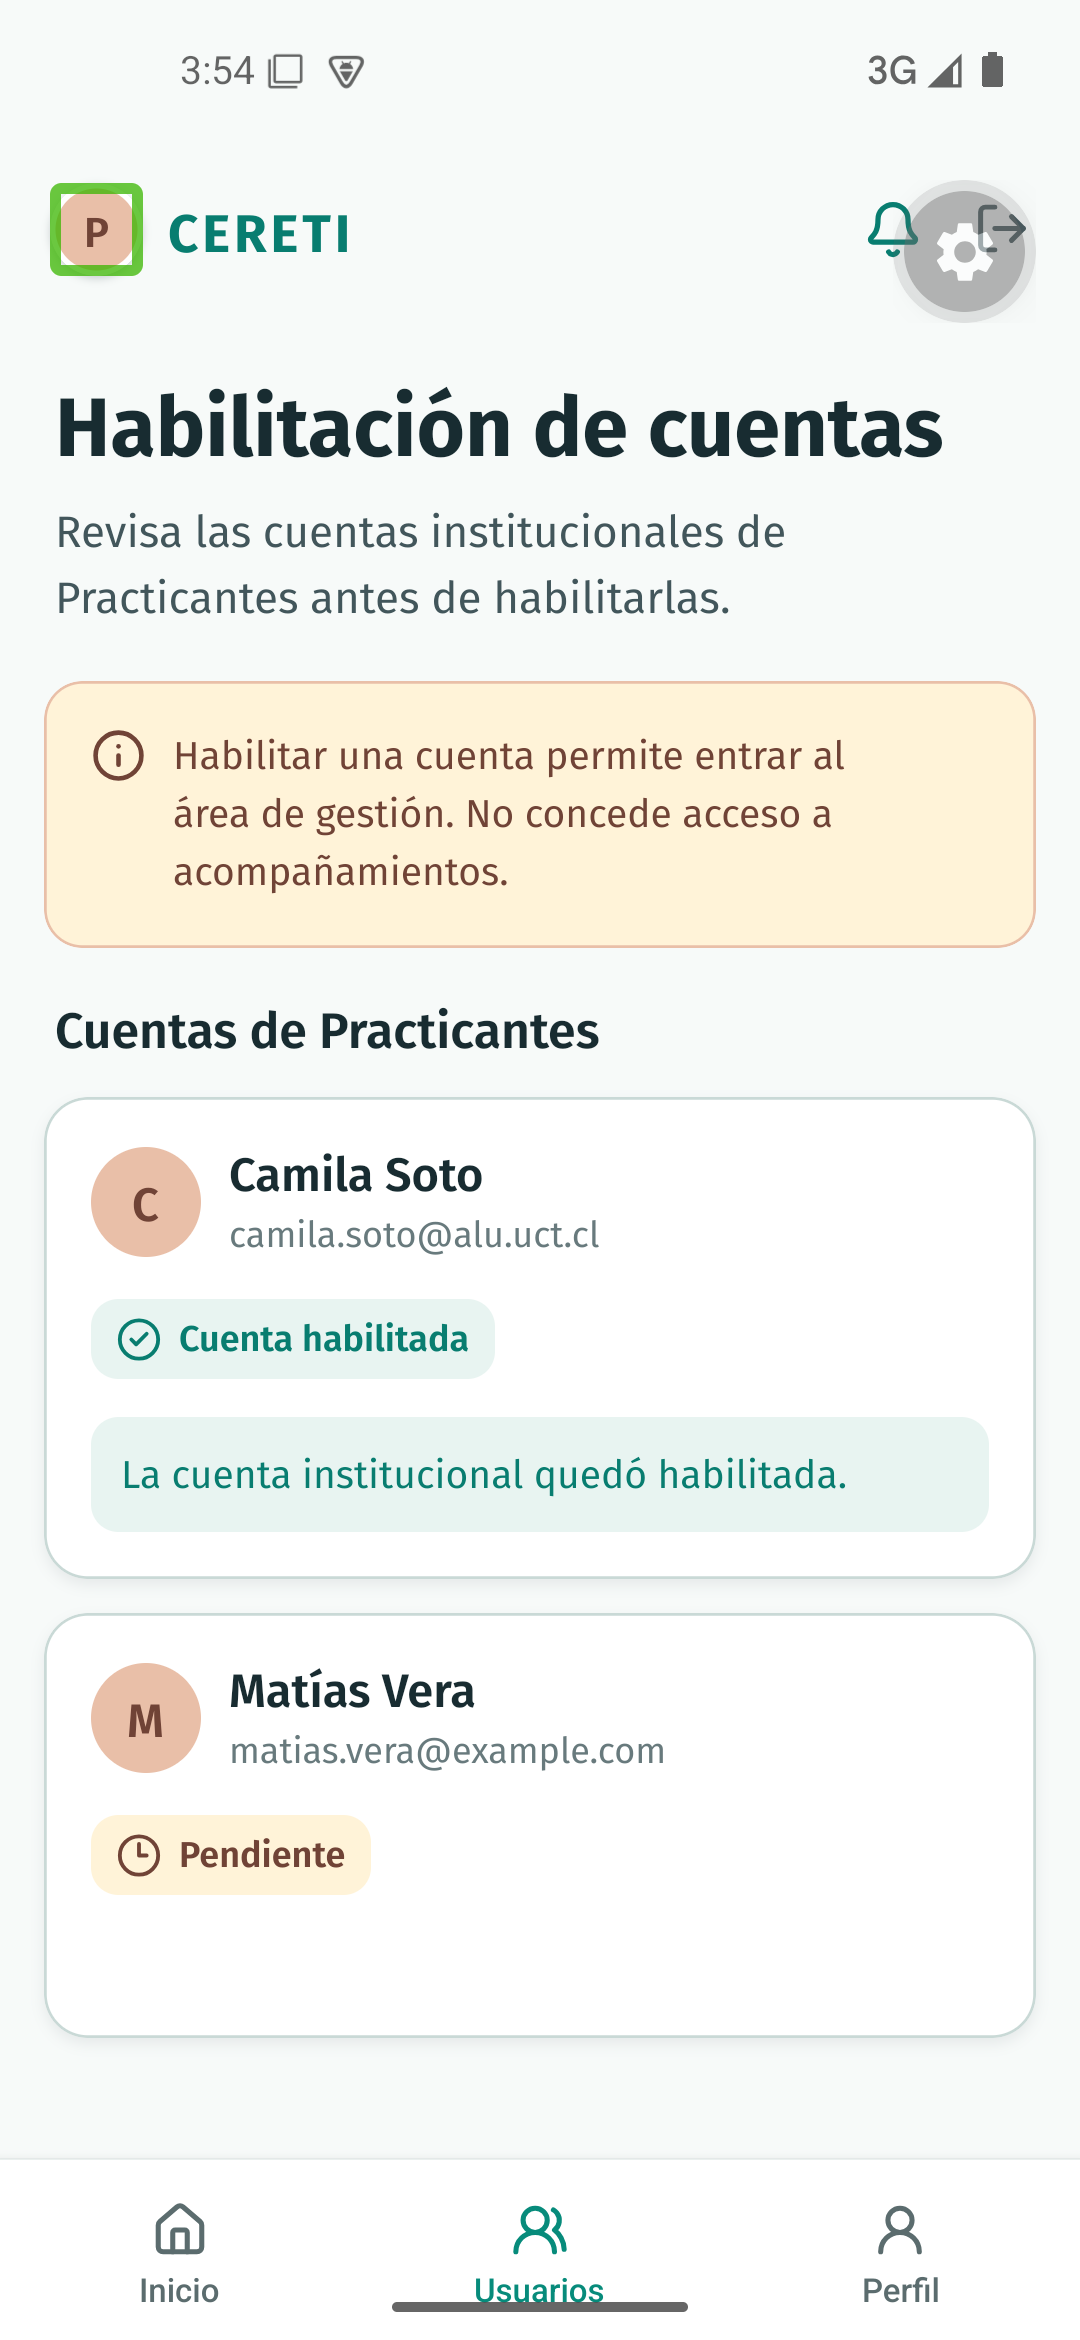
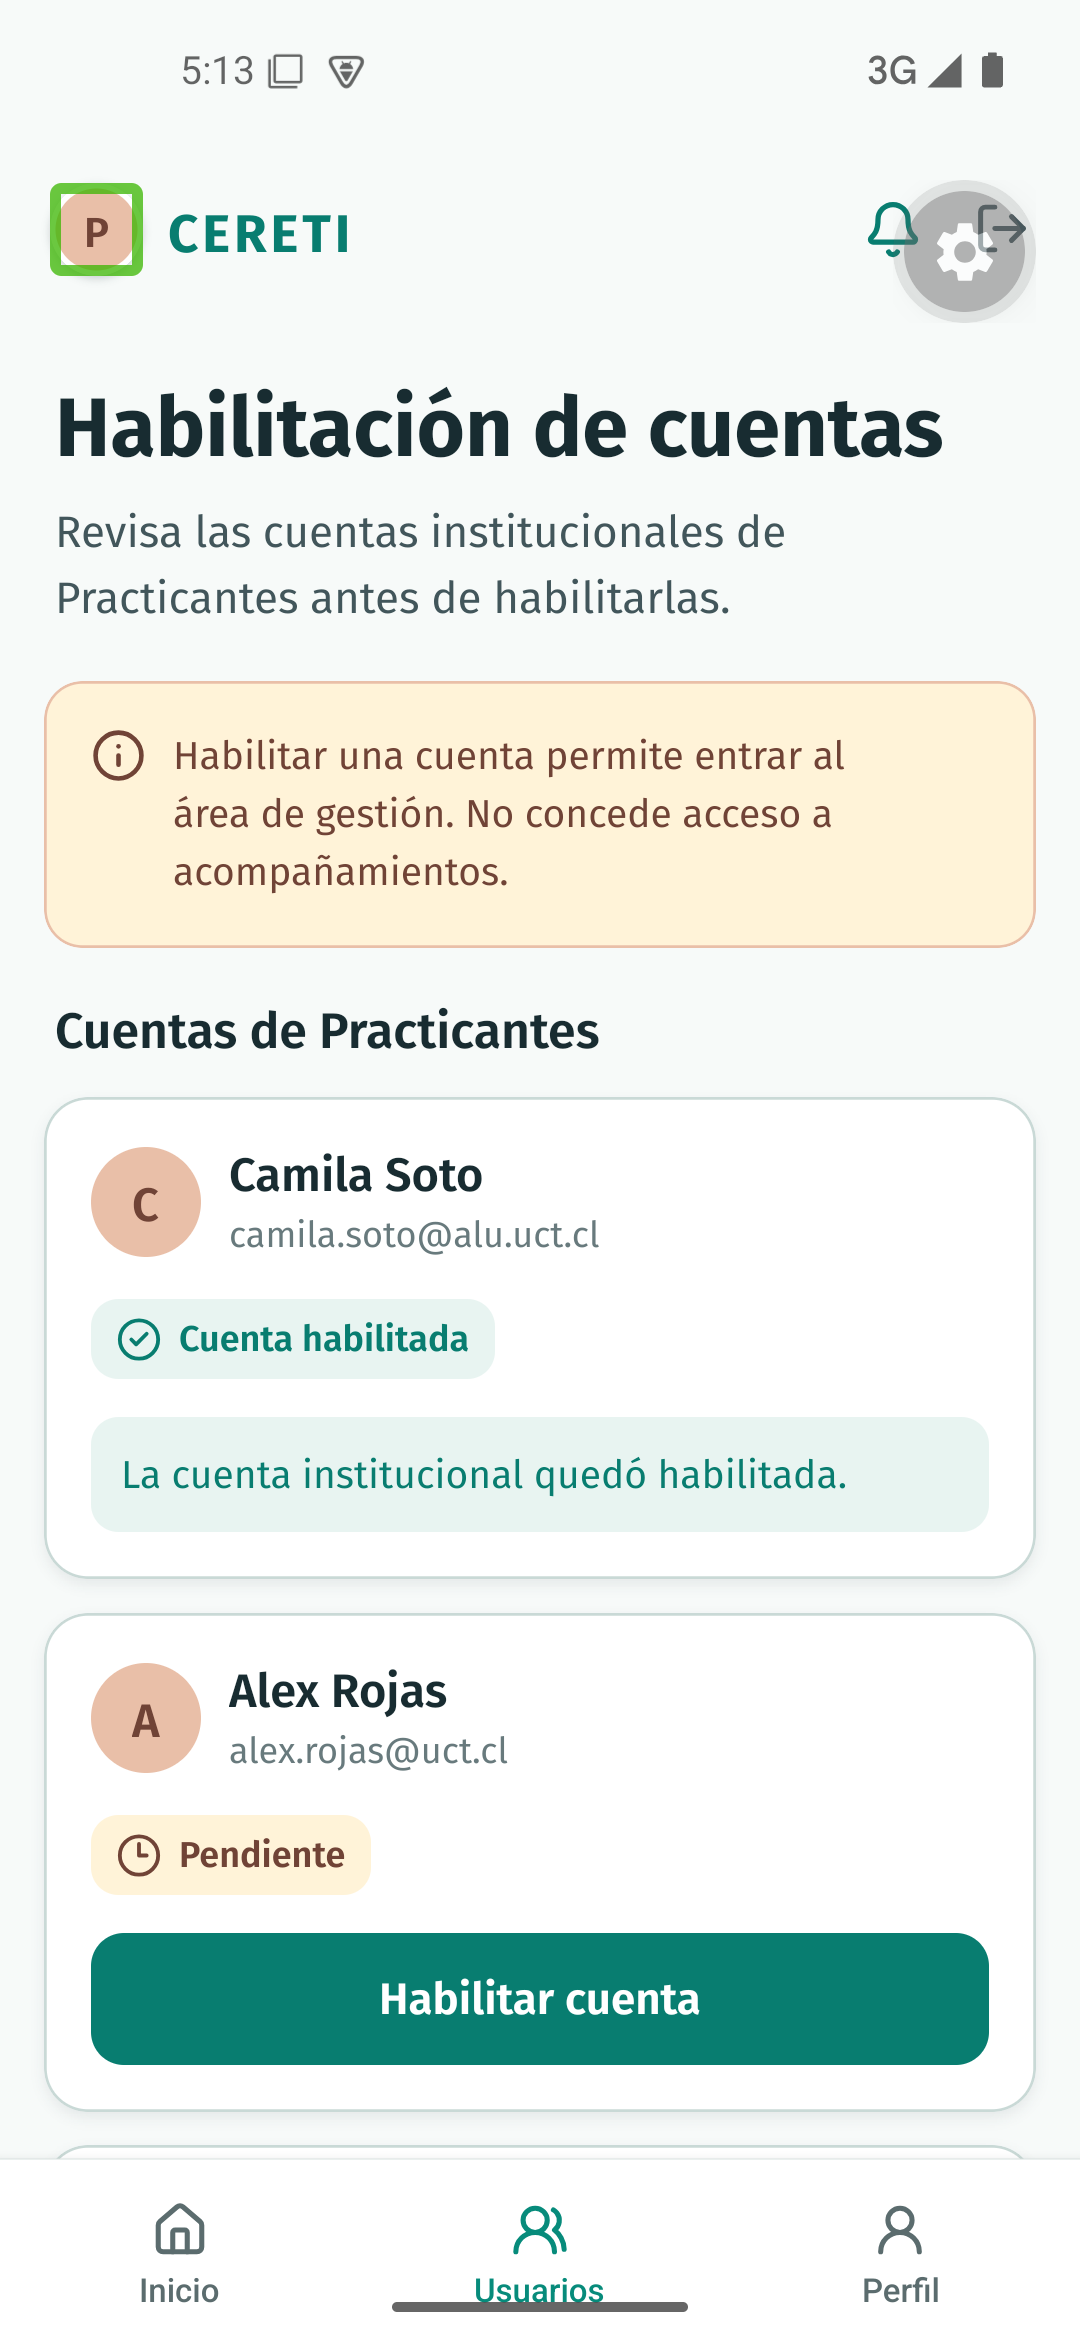
docs(mobile): actualizar evidencia Android de TI4-11

Changed region(s): [[0.0611, 0.8111, 0.9167, 0.9047], [0.2139, 0.7175, 0.4583, 0.7799], [0.1222, 0.7175, 0.1528, 0.7487]]

diff --git a/apps/mobile/docs/evidence/ti4-11/README.md b/apps/mobile/docs/evidence/ti4-11/README.md
@@ -1,16 +1,16 @@
 # Evidencia nativa de TI4-11
 
-Recorrido ejecutado el 21 de septiembre de 2026 sobre el commit `2e05d56cc9e42dd385b9228fa5f63a50e84e5665`, en el AVD `Pixel_5_Liviano` con Android 15, API 35 y el development build de CERETIME. La compilación e instalación se ejecutaron con `bun run mobile:android` y JDK 17; el flujo utiliza el adaptador mock de cuentas.
+Recorrido ejecutado el 21 de septiembre de 2026 sobre el commit `023e7950cdfcf69fc5b0f44732fd414d7a62aa95`, en el AVD `Pixel_5_Liviano` con Android 15, API 35 y el development build de CERETIME. La compilación e instalación se ejecutaron con `bun run mobile:android` y JDK 17; el flujo utiliza el adaptador mock de cuentas.
 
 ## Acceso del Administrador
 
-Desde el selector de roles se ingresó como Administrador y se abrió **Habilitación de cuentas** desde Inicio. La pantalla muestra la advertencia de que habilitar una cuenta permite entrar al área de gestión, pero no concede acceso a acompañamientos.
+Desde el selector de roles se ingresó como Administrador y se abrió **Habilitación de cuentas** desde Inicio. La pantalla muestra la advertencia de que habilitar una cuenta permite entrar al área de gestión, pero no concede acceso a acompañamientos. El botón verde de acceso aparece correctamente en Android.
 
 ![Inicio de Administrador](./admin-home.png)
 
 ## Cuentas pendientes
 
-La lista mostró a Camila Soto (`camila.soto@alu.uct.cl`) y Matías Vera (`matias.vera@example.com`) en estado **Pendiente**.
+La lista mostró a Camila Soto (`camila.soto@alu.uct.cl`), Alex Rojas (`alex.rojas@uct.cl`) y Matías Vera (`matias.vera@example.com`) en estado **Pendiente**, con sus acciones de habilitación visibles.
 
 ![Cuentas pendientes](./accounts-pending.png)
 
@@ -20,12 +20,18 @@ Camila Soto pasó de **Pendiente** a **Cuenta habilitada** y la pantalla confirm
 
 ![Cuenta institucional habilitada](./camila-enabled.png)
 
+## Habilitación de personal
+
+Alex Rojas también pasó a **Cuenta habilitada**, lo que comprueba el dominio institucional `@uct.cl` aceptado por el contrato del Backend.
+
+![Cuenta de personal habilitada](./uct-enabled.png)
+
 ## Rechazo de dominio
 
-Al intentar habilitar a Matías Vera, la cuenta permaneció en **Pendiente** y se mostró el mensaje `Solo puedes habilitar cuentas institucionales @alu.uct.cl.`.
+Al intentar habilitar a Matías Vera, la cuenta permaneció en **Pendiente** y se mostró el mensaje `Solo puedes habilitar cuentas institucionales @alu.uct.cl o @uct.cl.`.
 
 ![Rechazo de cuenta fuera del dominio institucional](./matias-domain-error.png)
 
 ## Resultado
 
-El recorrido selector de rol → Administrador → Habilitación de cuentas quedó aprobado en Android, incluyendo el caso válido, la transición de estado y el rechazo controlado por dominio.
+El recorrido selector de rol → Administrador → Habilitación de cuentas quedó aprobado en Android. Las acciones son visibles, ambos dominios institucionales se habilitan y el dominio externo se rechaza sin cambiar su estado.
